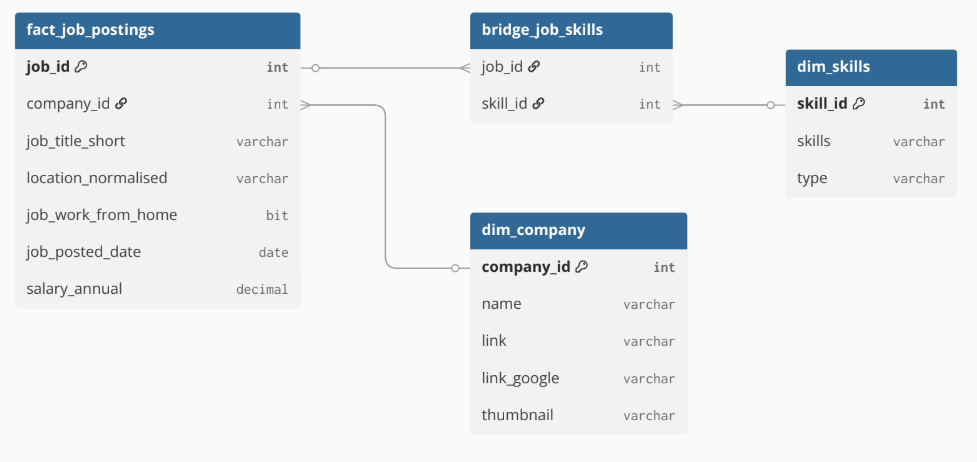
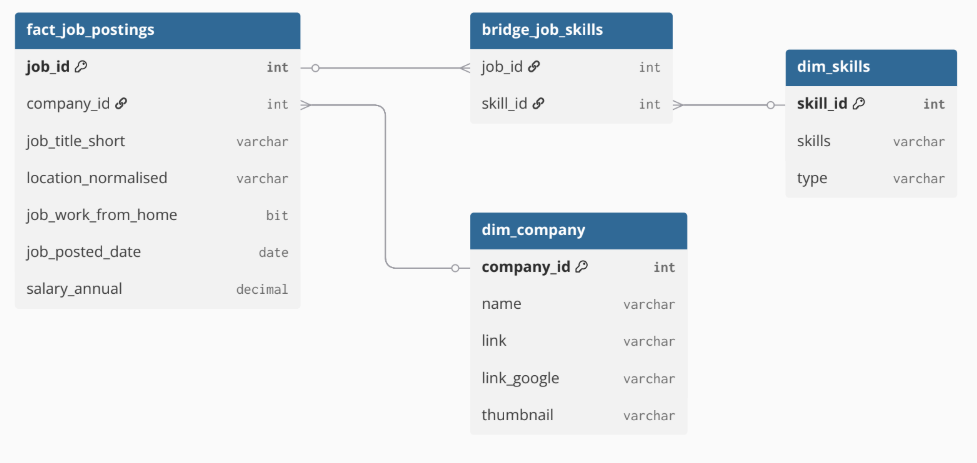
Finalize project structure and documentation

diff --git a/README.md b/README.md
@@ -1,0 +1,160 @@
+# Job Market Data Analysis (SQL Project)
+
+> A SQL-based analysis of job market trends, focusing on skill demand, salary insights, hiring patterns, and remote work adoption.
+
+## 📊 Overview
+
+This project explores trends within the data job market using SQL Server and Power Query.  
+The analysis focuses on identifying:
+- High-paying data roles
+- In-demand technical skills
+- Remote-friendly positions
+- Top hiring companies
+- Skills that combine high demand with high salaries
+
+The project follows a complete data workflow including:
+- Data cleaning and transformation
+- Data modeling using a star schema
+- SQL-based analysis and business insights
+
+## ⚙ Data Pipeline
+
+The project followed the workflow below:
+
+Excel Dataset → Power Query (Cleaning & Transformation) → SQL Server (Data Modeling) → SQL Analysis → Business Insights
+
+## 🧹 Data Cleaning & Preparation
+
+The raw dataset contained multiple worksheets and required preprocessing before analysis.
+
+### Key Cleaning Steps:
+- Combined and organized data using Power Query
+- Standardized data types for SQL compatibility
+- Handled invalid values such as `#NAME?`
+- Checked for duplicates and inconsistencies
+- Formatted date and salary columns appropriately
+- Renamed and structured staging tables (`stg_*`) before modeling
+
+These cleaning steps ensured consistency and reliability throughout the analysis process.
+
+## 🧱 Data Model
+
+A star schema design was used to structure the dataset efficiently for analytical queries.
+
+### Main Tables:
+- `fact_job_postings` → central fact table containing job posting records
+- `dim_company` → company-related information
+- `dim_skills` → technical skills referenced in job postings
+- `bridge_job_skills` → bridge table handling the many-to-many relationship between jobs and skills
+
+![Schema Diagram](03_docs/schema_diagram.png)
+
+### 📈 Highest Paying Data Roles
+
+Senior-level positions dominate salary rankings, with Senior Data Scientists and Senior Data Engineers earning the highest average salaries.  
+This reflects the premium placed on advanced analytical and engineering expertise.
+
+| Role | Average Salary ($) |
+|------|-------------------|
+| Senior Data Scientist | 147,353 |
+| Senior Data Engineer | 142,584 |
+| Data Engineer | 126,502 |
+| Data Scientist | 125,877 |
+| Machine Learning Engineer | 124,857 |
+
+### 🌍 Remote-Friendly Roles
+
+Engineering-focused roles show the highest proportion of remote opportunities, suggesting that infrastructure and technical development roles adapt more easily to distributed work environments.
+
+| Role | Remote % |
+|------|----------|
+| Senior Data Engineer | 14.69% |
+| Data Engineer | 11.39% |
+| Machine Learning Engineer | 10.49% |
+| Senior Data Scientist | 10.27% |
+| Data Scientist | 8.41% |
+
+### 🔥 Most Frequently Appearing Skills
+
+SQL and Python dominate job postings, reinforcing their importance as foundational skills within the data industry.
+
+| Skill | Frequency |
+|------|-----------|
+| SQL | 276,358 |
+| Python | 273,268 |
+| R | 94,175 |
+| Java | 61,812 |
+| SAS | 59,746 |
+
+### 💡 Optimal Skills (High Demand + High Salary)
+
+The most valuable skills combine strong market demand with high earning potential.  
+Technologies related to scalable systems, backend engineering, and cloud infrastructure stand out prominently.
+
+| Skill | Demand Count | Avg Salary ($) |
+|------|--------------|----------------|
+| Golang | 97 | 136,675 |
+| Rust | 84 | 122,040 |
+| Scala | 1,831 | 111,901 |
+| MongoDB | 1,033 | 109,521 |
+| Python | 54,466 | 98,877 |
+
+### 🏢 Top Hiring Companies
+
+A small group of companies account for a large volume of data-related job postings, indicating concentrated hiring activity in the market.
+
+| Company | Job Count |
+|---------|-----------|
+| Emprego | 6,661 |
+| Booz Allen Hamilton | 2,890 |
+| Dice | 2,828 |
+| HARNHAM | 2,558 |
+| Insight Global | 2,254 |
+
+## 🛠 Tools Used
+
+- SQL Server
+- Power Query (Excel)
+- Git & GitHub
+- dbdiagram.io
+
+## 📁 Project Structure
+
+```plaintext
+job_market_analysis/
+│
+├── 01_data/
+├── 02_sql/
+│   ├── setup/
+│   ├── analysis/
+│
+├── 03_docs/
+│   ├── data_cleaning.md
+│   ├── data_model.md
+│   ├── analysis_breakdown.md
+│
+├── README.md
+```
+
+---
+
+# 🚀 SECTION 8: HOW TO RUN
+
+## ▶ How to Run This Project
+
+1. Clone the repository
+2. Import the dataset from the `01_data/` folder into SQL Server
+3. Run setup scripts inside `02_sql/setup/`
+4. Execute analysis queries from `02_sql/analysis/`
+
+---
+
+## 🚀 Key Takeaways
+
+- SQL and Python remain foundational skills in the data industry
+- Senior-level and engineering-focused roles command the highest salaries
+- Cloud and backend technologies provide strong earning potential
+- Remote work adoption varies significantly across job roles
+- Combining demand analysis with salary analysis helps identify the most valuable technical skills
+
+This project demonstrates how structured SQL analysis can transform raw job posting data into meaningful business insights.

diff --git a/03_docs/data_model.md b/03_docs/data_model.md
@@ -1,0 +1,75 @@
+# Data Model
+
+## Overview
+
+A star schema design was used to structure the dataset for efficient analytical querying and simplified relationship management.
+
+The schema separates transactional job posting data from descriptive dimension data, improving organization and scalability.
+
+---
+
+## Schema Design
+
+### Fact Table
+
+#### `fact_job_postings`
+The central table containing job posting information such as:
+- job titles
+- salaries
+- posting dates
+- remote work indicators
+- company references
+
+This table stores the measurable and analytical data used throughout the project.
+
+---
+
+## Dimension Tables
+
+### `dim_company`
+Contains company-related information such as:
+- company names
+- company links
+- metadata related to employers
+
+---
+
+### `dim_skills`
+Contains technical skills associated with job postings.
+
+Examples:
+- SQL
+- Python
+- Tableau
+- AWS
+
+---
+
+## Bridge Table
+
+### `bridge_job_skills`
+Handles the many-to-many relationship between:
+- job postings
+- technical skills
+
+A single job posting may require multiple skills, while each skill may appear across many job postings.
+
+---
+
+## Relationships
+
+- `fact_job_postings.company_id` → `dim_company.company_id`
+- `bridge_job_skills.job_id` → `fact_job_postings.job_id`
+- `bridge_job_skills.skill_id` → `dim_skills.skill_id`
+
+---
+
+## Schema Diagram
+
+![Schema Diagram](schema_diagram.png)
+
+---
+
+## Outcome
+
+The star schema structure simplified SQL querying, improved analytical flexibility, and supported efficient aggregation and relationship handling throughout the analysis process.

diff --git a/03_docs/data_cleaning.md b/03_docs/data_cleaning.md
@@ -40,7 +40,7 @@ The dataset originally contained multiple worksheets representing different enti
 
 ### 5. Preparing Data for SQL Server
 - Imported cleaned datasets into SQL Server staging tables (`stg_*`)
-- Structured the data for dimensional modelling and analytical querying
+- Structured the data for dimensional modeling and analytical querying
 
 ---
 
